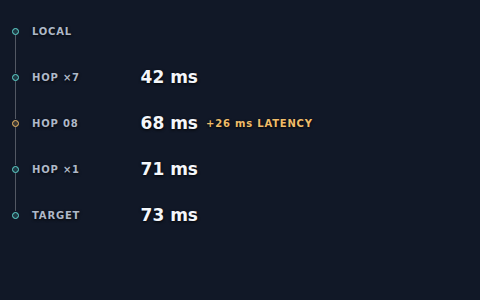
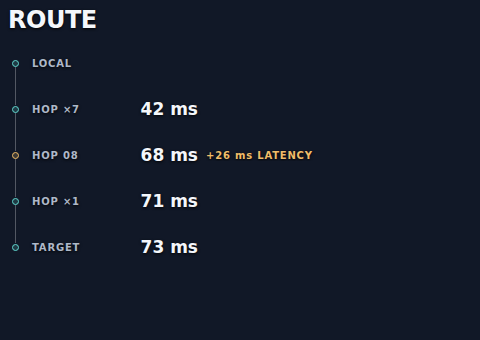
fix: add title to route overlay

diff --git a/tests/visual/overlay.spec.js b/tests/visual/overlay.spec.js
@@ -102,7 +102,7 @@ async function openOverlay(page, route, readySelector, readyText) {
 const cases = [
   {name: 'latency', route: '/latency', viewport: {width: 480, height: 270}, ready: '#latency', readyText: '27'},
   {name: 'traffic', route: '/traffic', viewport: {width: 480, height: 210}, ready: '#tx-traffic', readyText: '824'},
-  {name: 'route', route: '/route', viewport: {width: 480, height: 300}, ready: '#route-nodes', readyText: 'TARGET'},
+  {name: 'route', route: '/route', viewport: {width: 480, height: 340}, ready: '#route-nodes', readyText: 'TARGET'},
 ];
 
 for (const example of cases) {

diff --git a/.github/scripts/web-ui-test.js b/.github/scripts/web-ui-test.js
@@ -101,6 +101,7 @@ assert.doesNotMatch(pages.latency.html, /id="traffic-chart-canvas"/);
 assert.match(pages.traffic.html, /id="traffic-chart-canvas"/);
 assert.doesNotMatch(pages.traffic.html, /id="latency-chart-canvas"/);
 assert.match(pages.route.html, /id="route-nodes"/);
+assert.match(pages.route.html, /class="route-title">ROUTE<\/h2>/);
 assert.doesNotMatch(pages.route.html, /chart-canvas|parts=/);
 assert.match(overlayCSS, /data-parts="values"/);
 assert.match(overlayCSS, /data-parts="graph"/);

diff --git a/web/route/index.html b/web/route/index.html
@@ -8,6 +8,7 @@
 </head>
 <body>
   <main class="route" aria-label="匿名化されたネットワーク経路">
+    <h2 class="route-title">ROUTE</h2>
     <ol class="route-nodes" id="route-nodes">
       <li class="route-node is-muted">
         <span class="node-marker" aria-hidden="true"></span>

diff --git a/web/route/route.css b/web/route/route.css
@@ -33,6 +33,15 @@ body {
   font-variant-numeric: tabular-nums;
 }
 
+.route-title {
+  margin: 0 0 8px;
+  color: var(--text);
+  font-size: 24px;
+  font-weight: 700;
+  letter-spacing: -.02em;
+  line-height: 1;
+}
+
 .route-nodes {
   display: grid;
   gap: 0;

diff --git a/docs/windows-mvp-checklist.md b/docs/windows-mvp-checklist.md
@@ -86,7 +86,7 @@ ICMPを返さない検証用ネットワークまたは測定先を使い、HTTP
 3. 別のブラウザソースへ `http://127.0.0.1:8080/traffic`、サイズを480 x 210で追加する。
 4. OBSのシーンを切り替え、ソースを再表示する。
 
-別のブラウザソースへ `http://127.0.0.1:8080/route`、サイズを480 x 300で追加する。
+別のブラウザソースへ `http://127.0.0.1:8080/route`、サイズを480 x 340で追加する。
 
 - [ ] `LATENCY` と `NIC TRAFFIC` の数値とグラフを判読できた
 - [ ] 遅延統計のラベル、値、単位が列ごとに揃って表示された
